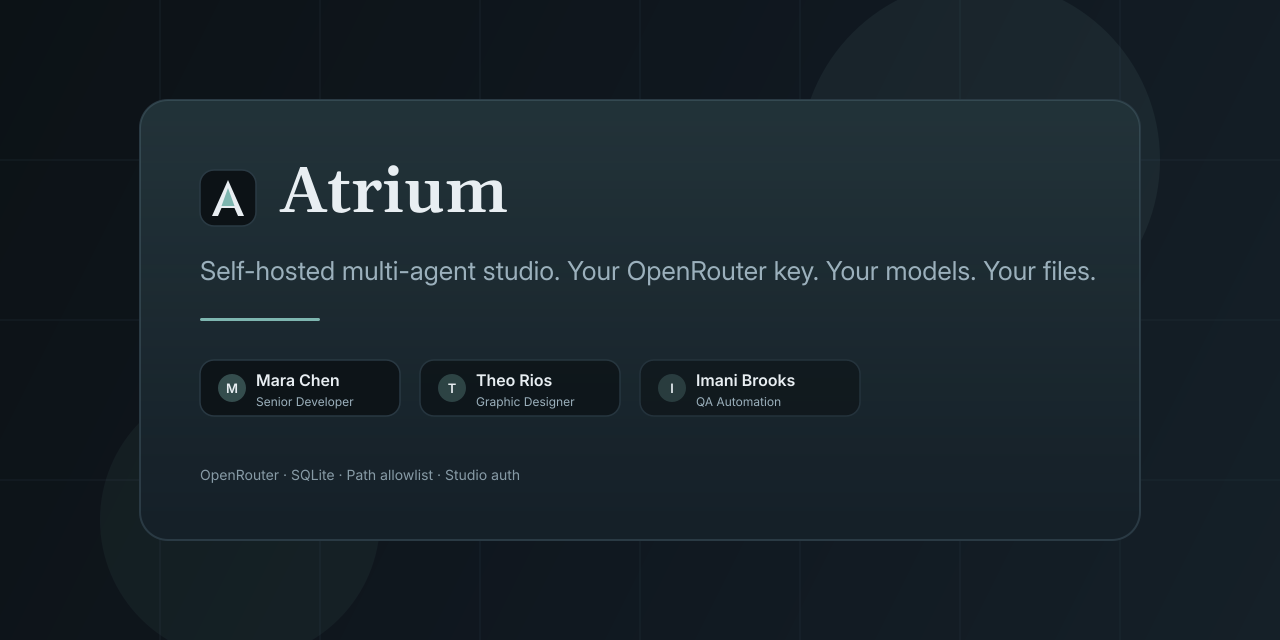
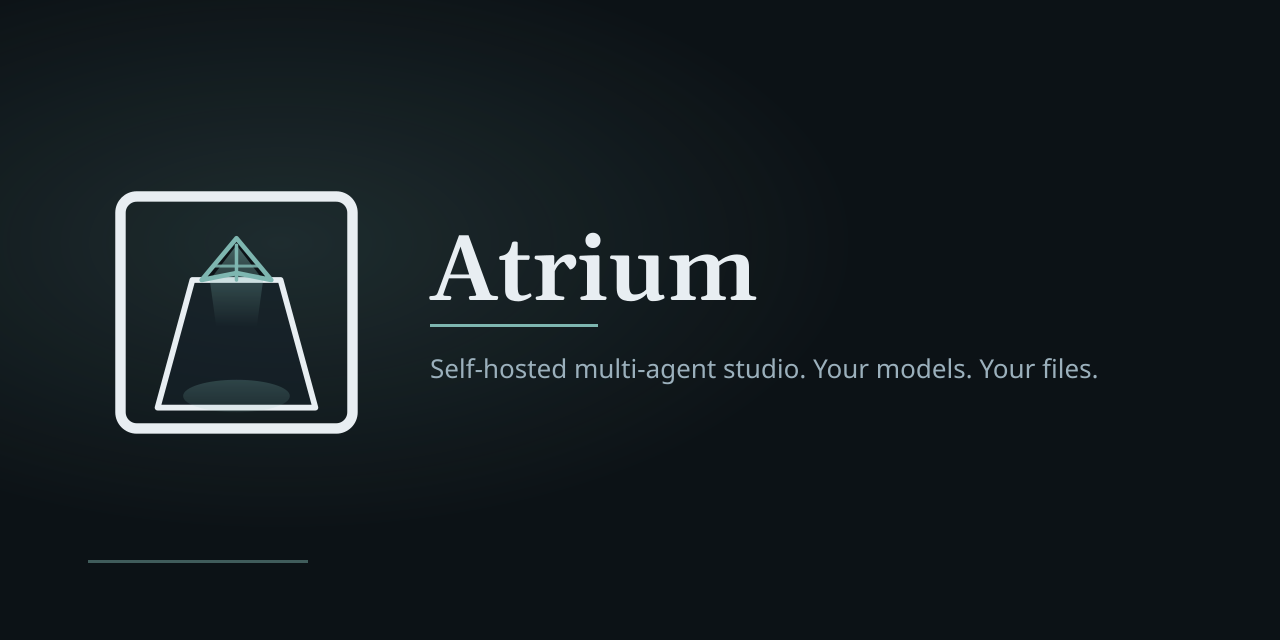
Add Atrium brand pack: skylight mark, wordmark, and social preview.

diff --git a/src/components/ThreadList.tsx b/src/components/ThreadList.tsx
@@ -33,14 +33,16 @@ export function ThreadList({
   return (
     <aside className="flex h-full w-full flex-col border-r border-ink-line/60 bg-ink-deep/80">
       <div className="flex items-center justify-between gap-2 border-b border-ink-line/60 px-4 py-4">
-        <div>
-          <div className="font-display text-lg tracking-[0.08em] text-ink-foam">
-            ATRIUM
-          </div>
-          <div className="text-[11px] uppercase tracking-[0.22em] text-ink-mist/70">
+        <Link href="/chat" className="min-w-0">
+          <img
+            src="/brand/logo-wordmark.svg"
+            alt="Atrium"
+            className="h-7 w-auto"
+          />
+          <div className="mt-1 text-[11px] uppercase tracking-[0.22em] text-ink-mist/70">
             Multi-agent desk
           </div>
-        </div>
+        </Link>
         <button
           type="button"
           onClick={onCreate}

diff --git a/src/components/LoginForm.tsx b/src/components/LoginForm.tsx
@@ -40,10 +40,17 @@ export function LoginForm() {
       onSubmit={onSubmit}
       className="w-full max-w-sm space-y-5 rounded-3xl border border-ink-line/70 bg-ink-panel/70 p-8 shadow-[0_30px_80px_rgba(0,0,0,0.35)] backdrop-blur"
     >
-      <div className="space-y-2">
-        <div className="font-display text-2xl tracking-[0.12em] text-ink-foam">
-          ATRIUM
-        </div>
+      <div className="space-y-3">
+        <img
+          src="/brand/logo-mark.svg"
+          alt=""
+          className="h-14 w-14"
+        />
+        <img
+          src="/brand/logo-wordmark.svg"
+          alt="Atrium"
+          className="h-8 w-auto"
+        />
         <p className="text-sm leading-relaxed text-ink-mist">
           Kyaw Zaw Hein&apos;s multi-agent desk. Enter the studio password to
           continue.

diff --git a/src/app/layout.tsx b/src/app/layout.tsx
@@ -22,7 +22,7 @@ export const metadata: Metadata = {
       "Self-hosted multi-agent studio. Your OpenRouter key. Your models. Your files.",
     images: [{ url: "/og.png", width: 1280, height: 640 }],
   },
-  icons: { icon: "/favicon.svg" },
+  icons: { icon: "/favicon.svg", apple: "/brand/logo-mark-512.png" },
   twitter: {
     card: "summary_large_image",
     title: "Atrium",

diff --git a/README.md b/README.md
@@ -10,7 +10,7 @@
 </p>
 
 <p align="center">
-  <img src="docs/hero.svg" alt="Atrium — self-hosted multi-agent studio" width="100%" />
+  <img src="docs/github-social.png" alt="Atrium — self-hosted multi-agent studio" width="100%" />
 </p>
 
 Atrium is a calm, self-hosted multi-agent chat studio by [Kyaw Zaw Hein](https://github.com/kyawzawhein-qa). Define specialist agents, pick an OpenRouter model per agent, and optionally grant absolute filesystem paths so agents can list, read, write, and edit files — all on your machine, with a local SQLite database.

diff --git a/public/brand/BRAND.md b/public/brand/BRAND.md
@@ -1,0 +1,13 @@
+# Atrium brand (drop-in)
+
+Coastal-ink palette: deep `#0c1216` · panel `#152028` · foam `#e8eef2` · teal `#7eb6b0`.
+
+| File | Use |
+|------|-----|
+| `logo-mark.svg` | Primary mark (atrium / skylight metaphor) |
+| `logo-mark-512.png` | 512² transparent PNG |
+| `logo-wordmark.svg` | “Atrium” Fraunces outlines, foam (light-on-dark) |
+| `favicon.svg` | 32-friendly favicon |
+| `og-social.png` | GitHub / OG 1280×640 |
+
+Metaphor: architectural atrium — court walls + skylight opening + cool light shaft. Not a chat bubble.
